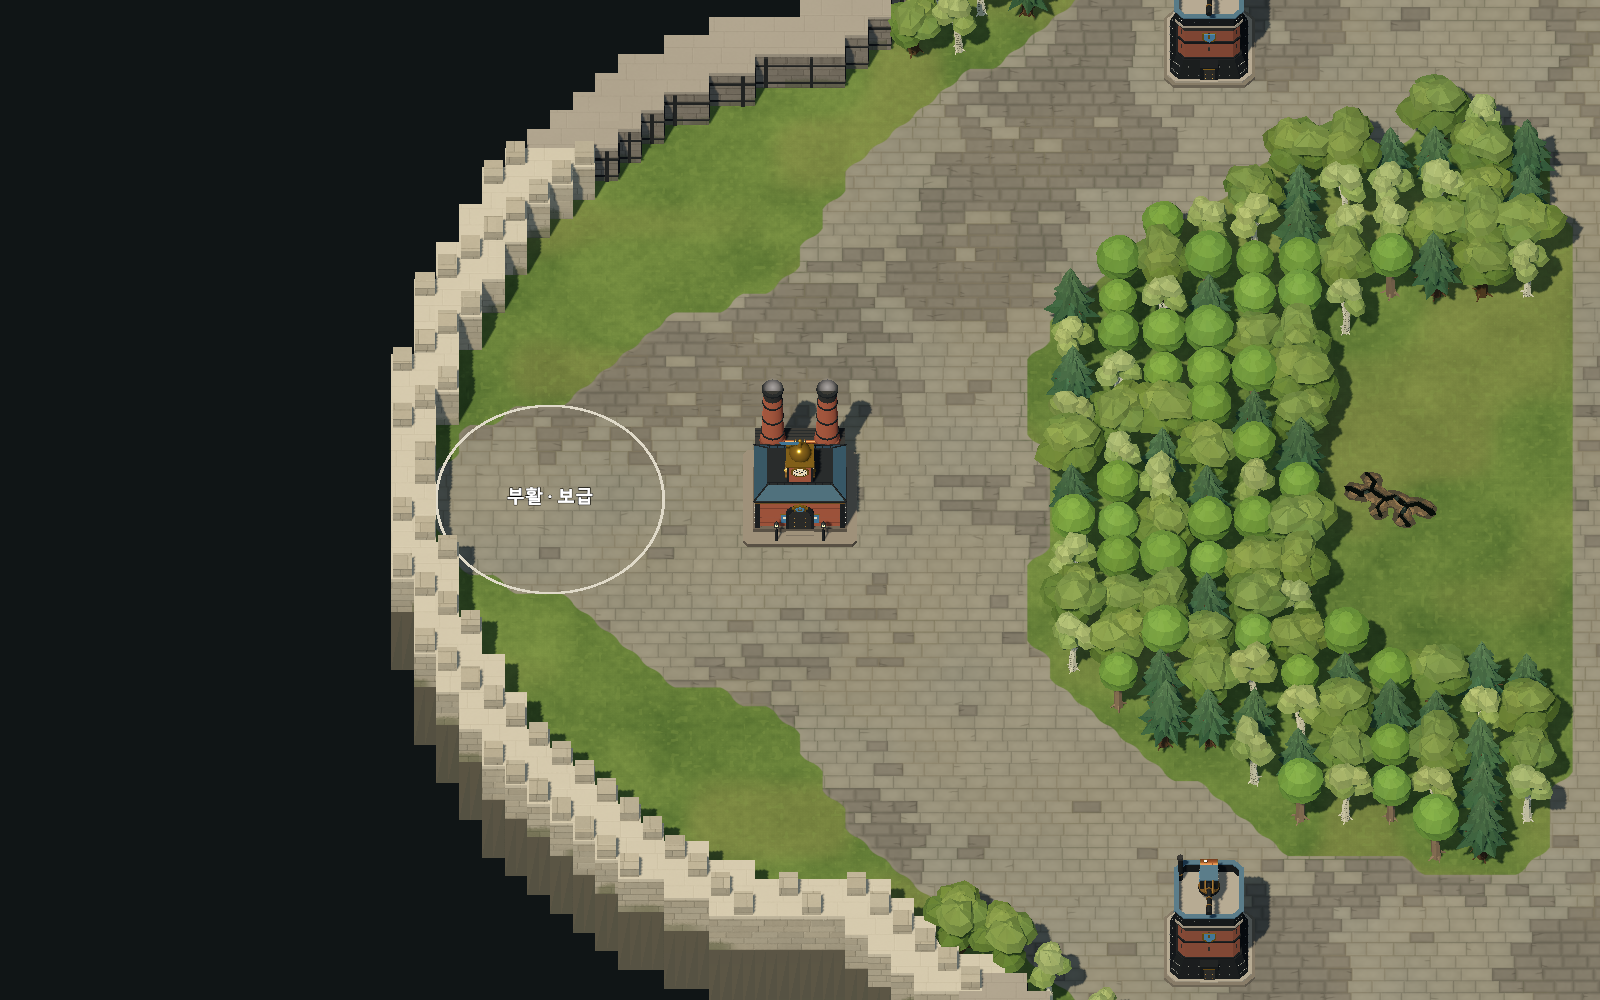
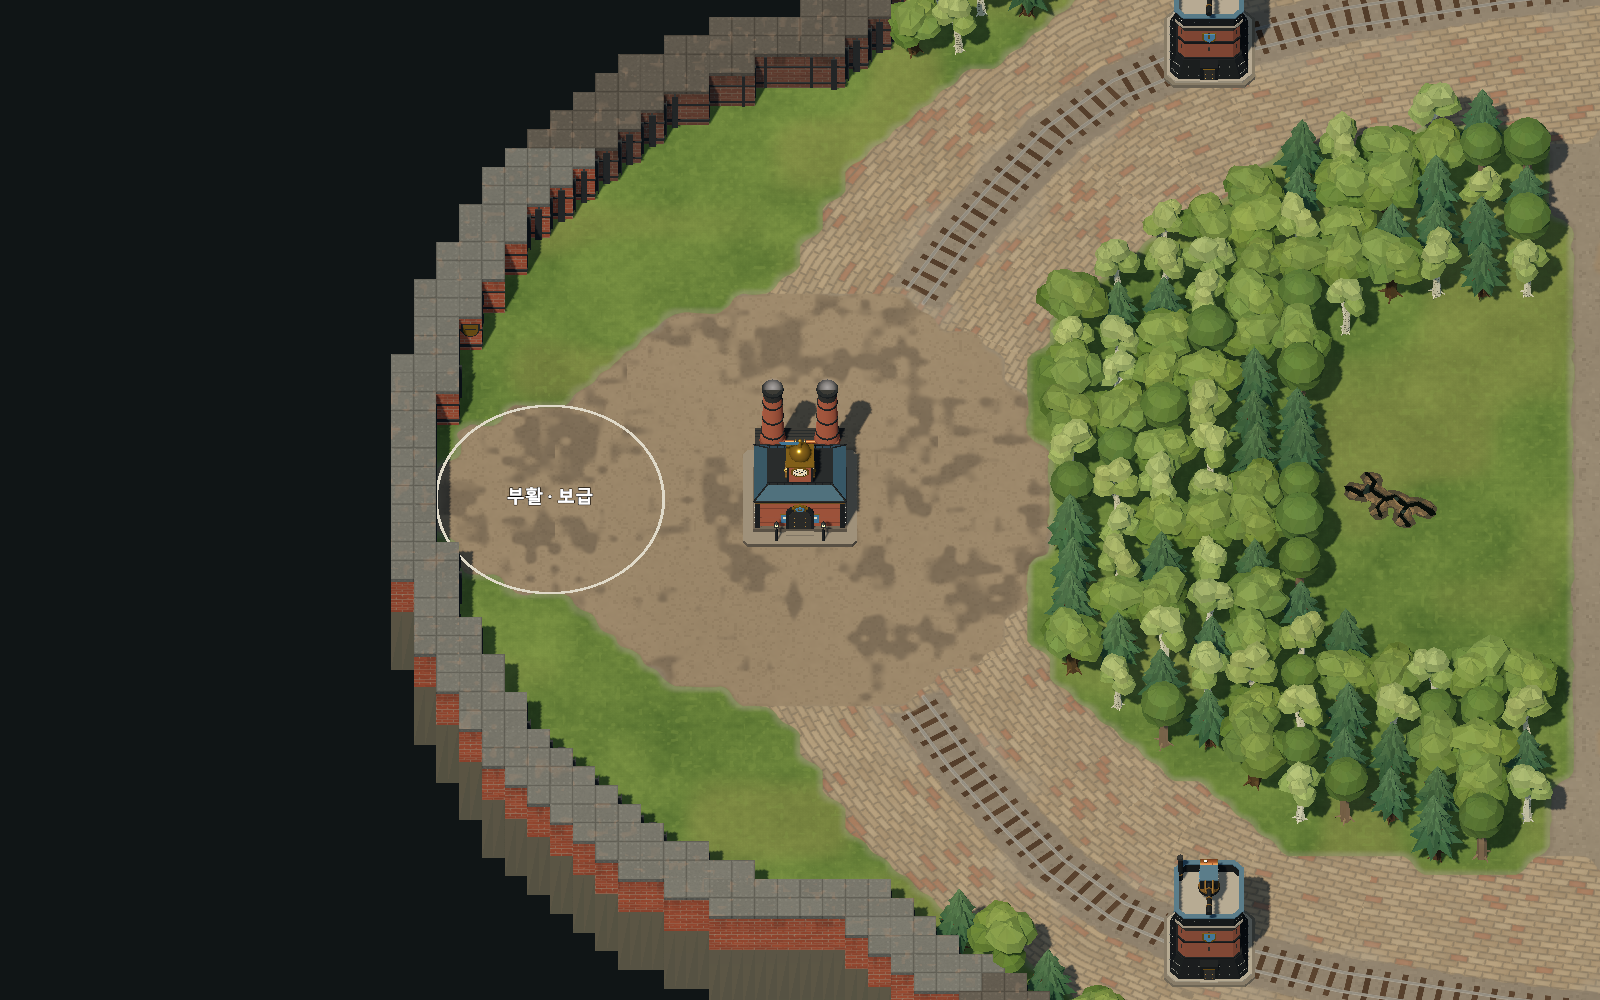
Show the industrial ground and wall in the map docs

diff --git a/docs/map.md b/docs/map.md
@@ -100,15 +100,15 @@
 
 `oilFields`는 선택적 유전 메타데이터입니다. 각 항목에는 `id`, 유전 영역 `center`·`radii`, 공터 `clearingCenter`·`clearingRadii`, 배치 예시 `supplySite`가 있습니다. 중앙 유전에는 입구 좌표 `entrances`와 폭 `entranceWidth`도 지정합니다. 클라이언트는 중심에 공통 모델을 놓고 반경은 미니맵과 시추탑의 위치 선택에 사용합니다. 서버도 `center`·`radii`를 읽어 시추탑을 유전 중심에 고정하며, 다른 건설·통행·장애물 판정에는 기존 `rows`를 사용합니다. `supplySite`는 자동 건설이나 소유권 배정을 수행하지 않습니다.
 
-`TerrainBuilder.gd`는 JSON 격자를 따라 평평한 Y=0 지면과 충돌을 만듭니다. `Ground.gdshader`는 도로 마스크로 포석과 풀밭을 표현합니다. 유전의 `R` 칸은 포석 대신 풀밭을 표시하고 그 위에 공통 균열 모델을 놓습니다. 갈라진 암반과 기름 연출은 시각 메시이며 이동 판정과 별도의 자원 시스템을 만들지 않습니다. 외곽 절벽과 벽도 같은 격자에서 생성합니다.
+`TerrainBuilder.gd`는 JSON 격자를 따라 평평한 Y=0 지면과 충돌을 만듭니다. `Ground.gdshader`는 도로 마스크로 길과 풀밭을 나누고, `TerrainBuilder.road_surface`가 칸마다 고른 표면 마스크로 길의 재료(라인 벽돌, 작업장 흙, 광장 벽돌, 석탄 가루)를 정합니다. 유전의 `R` 칸은 길 대신 풀밭을 표시하고 그 위에 공통 균열 모델을 놓습니다. 갈라진 암반과 기름 연출은 시각 메시이며 이동 판정과 별도의 자원 시스템을 만들지 않습니다. 외곽 절벽과 벽도 같은 격자에서 생성합니다.
 
 ### 외형 바리에이션
 
 | 대상 | 파일 | 표현 |
 | --- | --- | --- |
-| 돌길·잔디 | `maps/materials/Ground.gdshader` | 톤을 낮춘 포석·줄눈·먼지·가는 실금, 군데군데 무리 지어 섞인 빛바랜 어두운 옛 포석(평평하게 닳고 살짝 꺼졌으며 줄눈에서 때가 번짐), 풀 얼룩·클로버 |
+| 길·잔디 | `maps/materials/Ground.gdshader`, `TerrainBuilder.road_surface`·`lane_curve` | 라인: 길 방향을 따라 쌓은 밝은 벽돌과 드문 붉은 벽돌, 가운데 석탄재 자갈 위 침목·레일(라인 중심선을 곡선으로 다듬어 모퉁이에서 꺾이지 않음), 궤도 양옆의 잿빛 먼지. 본진·부활 지점: 석탄 가루가 무리 지어 앉은 다진 흙. 정글 공터: 다진 흙. 마석 광장: 다섯 줄마다 어두운 띠가 있는 동심원 벽돌. 그 밖의 길: 석탄재 자갈. 길가 풀의 잿가루, 풀 얼룩·클로버 |
 | 유전 균열·기름 | `maps/Oilfield.tscn` | 네 곳이 같은 모델 공유. 지그재그 균열·갈라진 암반과 틈에서 낮게 솟는 기름. 상호작용·충돌 노드 없음 |
-| 벽 | `maps/materials/Wall.gdshader`, `TerrainBuilder.build_walls` | 석회암·이끼·가는 균열·빗물 자국. 둘레의 약 30% 구간은 총안이 떨어져 나가고 철띠와 철판으로 보강한, 어둡고 빛바랜 옛 성벽 |
+| 벽 | `maps/materials/Wall.gdshader`, `TerrainBuilder.build_walls` | 리벳 강판 갓을 씌운 붉은 벽돌 방벽. 위쪽 벽돌의 그을음, 이음매의 가는 녹. 안쪽 면에 철판 띠 두 줄, 다섯 칸마다 I형 철골 버팀대, 드문드문 금박 문장 방패(180도 회전 위치에도 같은 자리). 둘레의 약 30%는 더 그을리고 빛바랜 옛 구간이며 세로 철띠를 둘렀다. 장식은 벽에서 0.15m 안이라 이웃 칸의 평평한 땅을 가리지 않는다(`tests/check_arena.gd`) |
 | 나무 | `resources/trees/SculptedTree.gd`, `Foliage.gdshader` | 참나무·자작나무·침엽수와 깔끔하게 다듬은 둥근 수관의 피나무(약 1/7, 숲에서 튀지 않게 한 톤 어둡게). 수종은 시작 칸 좌표를 섞어 고르고, 같은 수종 안에서는 고정 변형과 자원 ID 기반 회전·크기 |
 
 `LayoutGuides`에는 본진 마커, 공격로 경로, 활동 구역·확장 부지의 기준점이 있습니다. 미니언의 실제 경유지는 JSON의 `lanes`를 사용합니다.
@@ -119,7 +119,7 @@
 
 ## 수정 및 재생성
 
-자동 배치 기준은 `maps/TerrainBuilder.gd`에 있습니다. 본진 잔디는 `BASE_MEADOW_RADII`, 중앙·정글은 `activity_areas()`, 외곽 확장 부지는 `EXPANSION_*`, 유전과 공터는 `OIL_CLEARING_*`·`OIL_ENTRANCE_*`·`OIL_CONNECTION_*`·`oil_fields()`·`is_oilfield_clearing()`에서 조절합니다. 옛 성벽 구간은 지도 중심 기준 호 개수 `OLD_WALL_ARCS`와 비율 `OLD_WALL_SHARE`로 고르며 180도 회전 위치에도 같은 구간이 생깁니다. 옛 포석의 비율은 `Ground.gdshader`의 `aged_ratio`·`aged_cluster`입니다. 전체 배열의 원점과 크기는 `MAP_ORIGIN`, `MAP_SIZE`로 고정합니다.
+자동 배치 기준은 `maps/TerrainBuilder.gd`에 있습니다. 본진 잔디는 `BASE_MEADOW_RADII`, 중앙·정글은 `activity_areas()`, 외곽 확장 부지는 `EXPANSION_*`, 유전과 공터는 `OIL_CLEARING_*`·`OIL_ENTRANCE_*`·`OIL_CONNECTION_*`·`oil_fields()`·`is_oilfield_clearing()`에서 조절합니다. 옛 성벽 구간은 지도 중심 기준 호 개수 `OLD_WALL_ARCS`와 비율 `OLD_WALL_SHARE`로 고르며 180도 회전 위치에도 같은 구간이 생깁니다. 붉은 벽돌 비율과 석탄 가루 양은 `Ground.gdshader`의 `red_brick_ratio`·`coal_ratio`입니다. 전체 배열의 원점과 크기는 `MAP_ORIGIN`, `MAP_SIZE`로 고정합니다.
 
 클라이언트 프로젝트 루트에서 실행합니다. `Godot`은 설치한 Godot .NET 실행 파일 경로로 바꿉니다.
 

diff --git a/CHANGELOG.md b/CHANGELOG.md
@@ -5,6 +5,7 @@
 
 ## 2026-10-19
 
+- 지면과 외벽을 공업 지구로 바꿨습니다(사용자 요청, [아트 디렉션](docs/art-direction.md)). 회색 판석 대신 라인은 길 방향을 따라 쌓은 밝은 벽돌 포장 가운데에 석탄재 자갈과 침목·레일 궤도를 깔고, 본진과 부활 지점은 석탄 가루가 앉은 다진 흙, 정글 공터는 다진 흙, 마석 광장은 동심원 벽돌, 그 밖의 길은 석탄재 자갈입니다. 길가 풀에는 잿가루가 앉습니다. 총안이 달린 흰 석회암 성벽은 리벳 강판 갓을 씌운 붉은 벽돌 방벽으로 바꾸고, 안쪽 면에 철판 띠·I형 철골 버팀대·금박 문장 방패를 달았습니다. 옛 구간은 더 그을린 벽돌에 세로 철띠를 둘렀습니다. 외형만 바뀌며 지도 데이터·충돌·시야·맵 해시는 그대로입니다(`maps/materials/Ground.gdshader`, `Wall.gdshader`, `TerrainBuilder.gd`). 편집용 지형 캐시와 지도 미리보기 이미지, README GIF 여섯 개를 다시 만들었습니다. 서버 변경은 없습니다.
 - README에 게임 설명 세 개를 더했습니다(사용자 요청). **협력해 강해지세요**(영웅이 산 장비 상자를 일꾼이 싸우는 영웅에게 나름), **강력한 마석을 차지하세요**(마석에 정신집중하던 빨간 팀 골렘이 파란 팀 공압사수의 사격에 끊기고 달아남), **적의 HQ를 무너트리세요**(파란 팀 병력이 빨간 팀 HQ를 둘러싸고 공격함) 아래에 GIF(`docs/images/store/teamwork.gif`·`magic-stone.gif`·`hq-siege.gif`)를 하나씩 둡니다. 연출 장면 `previews/BattleStage.tscn`에 장면 4~6을 더해 찍었고([개발 안내](docs/development.md#readme-교전-gif)), `--scenes=`로 일부 장면만 찍을 수 있습니다. 카메라를 고정해 GIF 셋을 합쳐 1.1MB 정도입니다. 서버 변경은 없습니다.
 - README 교전 GIF 세 개(`docs/images/store/battle-1.gif`~`battle-3.gif`)를 최신 이동 방식으로 다시 찍었습니다. 지금까지는 연출 장면(`previews/BattleStage.tscn`)이 모든 유닛을 가장 가까운 적의 중심으로 곧장 보내서 양 팀이 한 점에 뭉쳤습니다. 이제 서버 `project-w-server`의 이동 규칙을 흉내 내어([개발 안내](docs/development.md#readme-교전-gif)), 병력은 배치를 유지한 채 나아가고, 근접 유닛은 멈춰 선 적의 둘레에 공격 자리를 나눠 받거나 한 줄 바깥에서 기다리거나 자리가 남은 다른 적으로 옮기며, 아군끼리는 밀어냅니다. 사거리는 몸 가장자리 사이로 재고 사령관은 서버처럼 근접으로 싸웁니다. GIF는 새 도구 `tools/pack-battle-gif.py`로 묶으며, 팀 색이 바래지 않도록 옥트리 팔레트를 써서 한 개가 4MB 안쪽입니다. 서버 변경은 없습니다.
 - 공물을 **마석**으로 바꾸고 마석을 재화로 보여 줍니다(사용자 요청). 화면 위쪽 자원 표시에 나무·기름 옆으로 마석(`ui/icons/magic-stone.svg`)이 생겼고, 미니언 UI 머리글에 보유 마석이 보입니다. **+** 버튼은 서버가 보낸 슬롯 가격(`MINION_ADD_COST`)만큼 마석이 있을 때 열리고, 고르는 창에는 `마석 100`처럼 가격이 나옵니다. 중앙 마석 알림·상태, 공성추·금덩어리 설명의 "공물"·"무료권"도 마석으로 바꿨습니다. 서버 `project-w-server`의 마석 재화와 같은 날 병합합니다.

diff --git a/docs/art-direction.md b/docs/art-direction.md
@@ -61,7 +61,7 @@
 | 건물(HQ, 숙소, 인력 사무소, 브랜치, 조병창) | 파란 슬레이트 지붕의 반목조 오두막 | **가장 어긋남.** 중세 마을 |
 | 요새, 감시탑 | 흰 석성과 총안, 십자가 깃발, 나무 감시탑 | 중세 성 |
 | 공장, 기술연구소 | 오두막 + 기계 장식, 황동 돔 | 반쯤 맞음. 연구소는 마법 공학 시설로 키운다 |
-| 지면과 외벽 | 톤을 낮춘 포석과 빛바랜 옛 포석 무리, 석재 성벽과 철띠로 보강한 어두운 옛 구간 | 아직 중세 도시 광장 쪽. 벽돌 포장·철판 방벽으로 더 옮긴다 |
+| 지면과 외벽 | **적용 완료.** 라인은 밝은 벽돌 포장 가운데 침목·레일 궤도, 본진은 석탄 가루가 앉은 다진 흙, 마석 광장은 동심원 벽돌, 샛길은 석탄재 자갈. 외벽은 리벳 강판 갓을 씌운 붉은 벽돌 방벽에 철판 띠·철골 버팀대·금박 문장 ([지도 미리보기](images/forest-preview.png)) | 기준에 맞음. 숲 가장자리 벌목 흔적과 길가 소품은 아직 없다 |
 | 미니언 | 단순한 블록형 인형 | 디테일 수준이 병력과 다름 |
 | 정글 몬스터, 공성추 | 단순한 동물, 통나무 공성추 | 중세·민속 판타지 |
 
